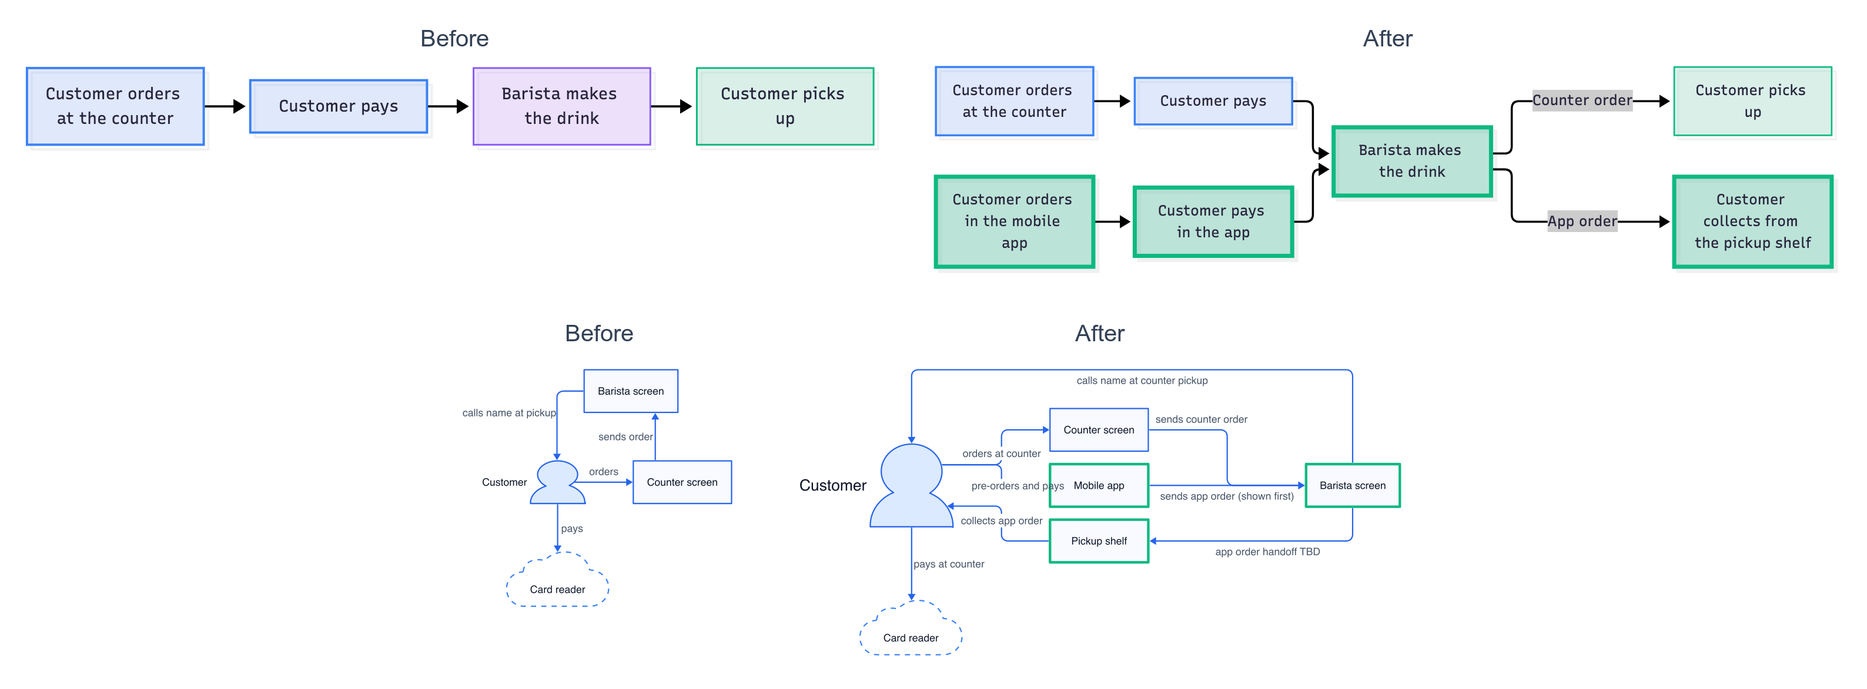
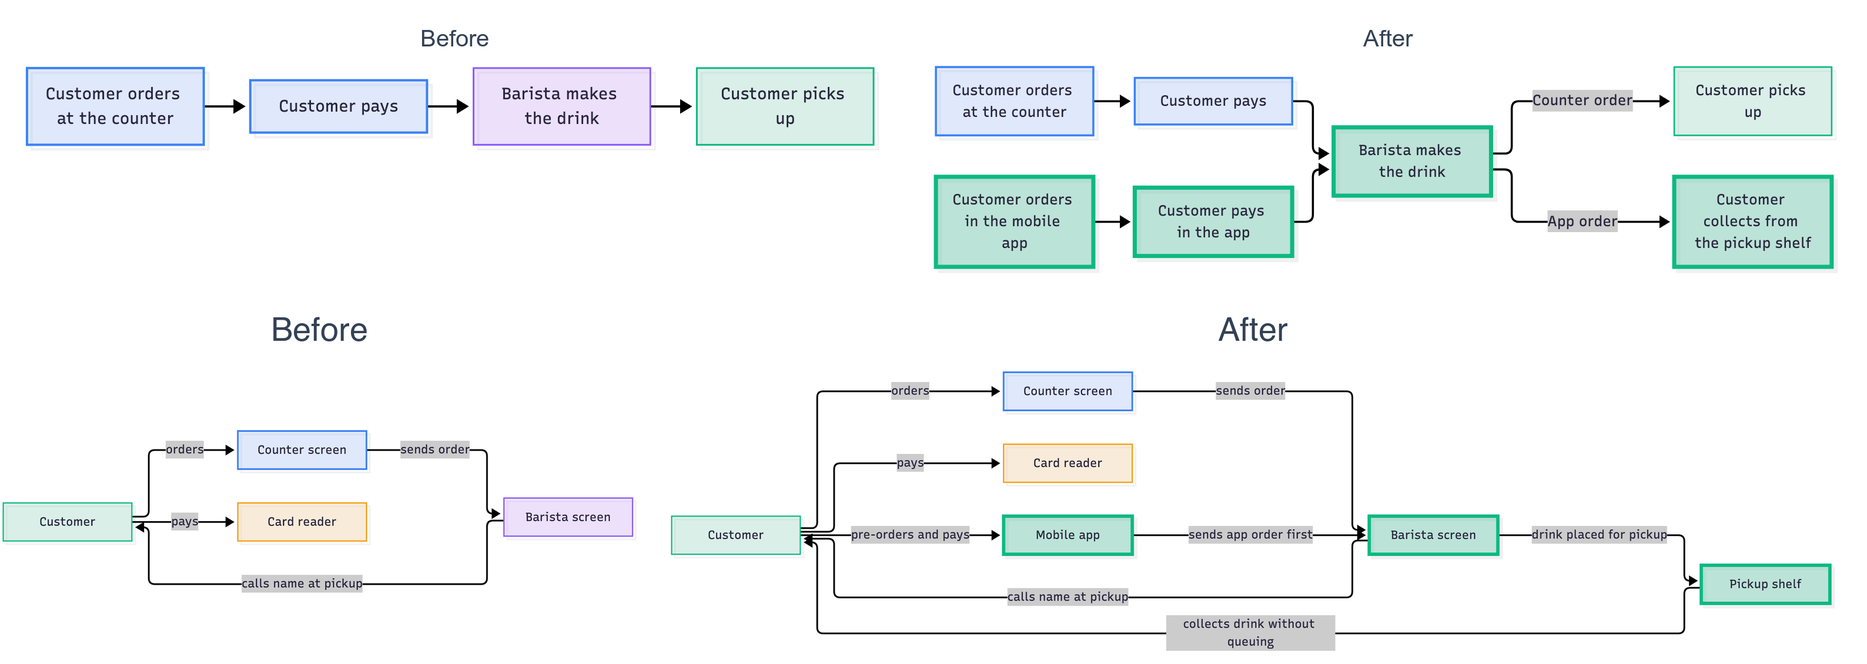
docs(repo): make demo 040 Mermaid-only and add a rendered D2 example to the crash course
Problem
- Demo 040 is the shortest, lowest-friction demo, but its D2 diagram needs a renderer that GitHub and most editors lack, and adds a second syntax for small models to get wrong.
- The crash course says a diagram is a recipe, but a six-line Mermaid example does not show how much one can draw.
- The repository was about to go public with a placeholder clone URL, a stale "no images" rule, and a checker that ignored image links.

Solution
- Replace demo 040's D2 diagram with a second Mermaid flowchart, update its agent rules, guide, README, and regenerate the before/after walkthrough image.
- Add a PNG rendered from the 89-line D2 block in the 010 architecture page to crash-course slide 9, stored in education/images/.
- Make tools/check-docs.py verify image links, with two new tests.
- Fill in the clone URL and refresh PLAN, AGENTS, TESTING, and tools/README.

Decisions
- D2 stays in demos 010 to 030, where the architecture is large enough to justify it.
- Withdraw the "Diagrams live only as text" decision: every diagram keeps a text recipe, and an image is an optional rendered copy, never the source.
- Reuse the real 010 diagram instead of drawing a new one, because it is already verified and shows scale.
- The renderer service address stays out of the repository; tools read it from D2_RENDERER_URL.

Implementation
- education/005-crash-course.md, education/README.md, education/images/d2-architecture-example.png.
[…]

diff --git a/tools/check-docs.py b/tools/check-docs.py
@@ -1,5 +1,5 @@
 #!/usr/bin/env python3
-"""Checks that every relative Markdown link resolves and every diagram renders.
+"""Checks that every relative Markdown link and image resolves and every diagram renders.
 
 Why it exists: this repository argues that documentation should be verified like
 code, so the same standard applies to its own pages. Mermaid renders locally with
@@ -20,8 +20,8 @@ from pathlib import Path
 ROOT = Path(__file__).resolve().parent.parent
 D2_URL = os.environ.get("D2_RENDERER_URL", "").rstrip("/")
 FENCE = re.compile(r"^```(\w+)[^\n]*\n(.*?)^```", re.S | re.M)
-# The lookbehind skips image syntax: this repository stores no images, so only page links are checked.
-LINK = re.compile(r"(?<!!)\[[^\]]*\]\(([^)\s]+)\)")
+# Matches page links and image links alike, so a missing image file is caught too.
+LINK = re.compile(r"\[[^\]]*\]\(([^)\s]+)\)")
 
 
 def markdown_files():

diff --git a/tools/test-check-docs.py b/tools/test-check-docs.py
@@ -65,6 +65,15 @@ class LinkChecks(unittest.TestCase):
         code, _ = run_checker({"a.md": f"{FENCE}text\n[gone](gone.md)\n{FENCE}\n"})
         self.assertEqual(code, 0)
 
+    def test_missing_image_fails(self):
+        code, output = run_checker({"a.md": "![alt](images/gone.png)"})
+        self.assertEqual(code, 1)
+        self.assertIn("broken link -> images/gone.png", output)
+
+    def test_existing_image_passes(self):
+        code, _ = run_checker({"a.md": "![alt](images/x.png)", "images/x.png": "png"})
+        self.assertEqual(code, 0)
+
     def test_web_and_anchor_links_are_ignored(self):
         code, _ = run_checker({"a.md": "[x](https://example.com) [y](#top)"})
         self.assertEqual(code, 0)

diff --git a/demo/040-lightweight-coffee-orders/presenter-guide.md b/demo/040-lightweight-coffee-orders/presenter-guide.md
@@ -12,11 +12,11 @@ git switch -c demo-run
 ```
 
 3. Open your AI tool in the [project/](project/README.md) folder. If it does not read [AGENTS.md](project/AGENTS.md) on its own, start with: "Read AGENTS.md and follow it."
-4. Have a previewer ready that shows Mermaid and D2 diagrams, so you can show the pictures after the change. Use whichever previewer you already have.
+4. Have a previewer ready that shows Mermaid diagrams, so you can show the pictures after the change. GitHub shows them in the browser, and most editors have a Mermaid preview. Use whichever you already have.
 
 ## Act 1: The starting point (30 seconds)
 
-- Show the two diagrams: the customer's journey (Mermaid) and the parts and how they connect (D2).
+- Show the two diagrams: the customer's journey and the parts and how they connect.
 - Say: "Both of these are text. There is no picture file behind them."
 
 ## Act 2: Ask (2 minutes)
@@ -66,9 +66,9 @@ Bramble Coffee is adding mobile pre-orders. Customers order and pay in a mobile 
 
 - **Show, in this order:**
   - The AI's summary.
-  - Your previewer, refreshed: new boxes and edges outlined in green in both diagrams.
+  - Your previewer, refreshed: new boxes and arrows outlined in green in both diagrams.
   - `git diff --stat`.
-- **Point out:** The text, the Mermaid diagram, and the D2 diagram all changed from one sentence.
+- **Point out:** The text and both diagrams changed from one sentence.
 
 ## Act 4: Clean up (30 seconds)
 
@@ -103,20 +103,20 @@ git add -A && git commit -m "Add mobile pre-orders"
 | File | Where                                                                                            |
 | :--- | :----------------------------------------------------------------------------------------------- |
 | 010  | The intro, the customer journey diagram (an app path), and the snapshot or risks                 |
-| 020  | The intro, the D2 diagram (a mobile app and a pickup shelf), the components table, and the rules |
+| 020  | The intro, the components diagram (a mobile app and a pickup shelf), the components table, and the rules |
 
 ## Rehearsal notes
 
-An independent run with a small, fast AI model (Haiku) and no other context handled every prompt in this guide. Expect similar results.
+A second independent run with a small, fast AI model (Haiku) and no other context handled every prompt in this guide on the Mermaid-only version. Expect similar results.
 
 - **Time:** About one minute of AI work for the change.
 - **What it did:**
-  - Updated both documents and both diagrams, and marked new or changed shapes in green.
-  - Kept the D2 setup block unchanged, and both diagrams compiled.
-  - Wrote `TBD` for what it could not know, such as who moves app orders to the shelf.
-- **The questions:** All five were answered correctly with the file named. For the coffee-bean question the model said the documents do not give a figure, and it did not invent one.
-- **The cleanup:** The model removed the highlights without disturbing anything else. If your model leaves a highlight behind, ask once more.
-- **A good line:** The AI wrote `TBD` for details the owner never gave, such as who moves app orders to the shelf. That gap is what the human review is for.
+  - Updated both documents and both diagrams, and marked new or changed nodes with the `changed` class.
+  - Kept the `classDef` setup, and both diagrams compiled.
+  - Wrote `TBD` for what it could not know: the app's payment provider, the wait for app orders, and who moves app orders to the shelf.
+- **The questions:** All five were answered correctly with the file named. For the coffee-bean question the model answered `TBD` and did not invent a figure.
+- **The cleanup:** The model removed the highlights without changing any text. It gave each formerly highlighted node the color of its role, because the rules require every node to keep a class. If your model leaves a highlight behind, ask once more.
+- **A good line:** The `TBD` entries are the gaps the owner never filled. That gap is what the human review is for.
 
 ## Pair it with the crash course
 

diff --git a/TESTING.md b/TESTING.md
@@ -4,12 +4,12 @@ The repository is documentation, so testing means proving that links resolve, di
 
 ## Workflows and checks
 
-| Change you make                              | Check                                                                             | Command                                                        | Expected result                                                         | When                        |
-| :------------------------------------------- | :-------------------------------------------------------------------------------- | :------------------------------------------------------------- | :---------------------------------------------------------------------- | :-------------------------- |
-| Any Markdown file                            | Every relative link resolves and every diagram renders                            | `python3 tools/check-docs.py`                                  | `0 problems`                                                            | Every change                |
-| The checker itself                           | The checker fails on a broken link, a broken Mermaid block, and a broken D2 block | `python3 tools/test-check-docs.py`                             | `OK`, with diagram cases skipped when no renderer is installed          | Every change to `tools/`    |
-| A demo's documents, rules, or prompts        | An AI given only `project/` answers and edits as the presenter guide says         | Rehearsal, described below                                     | Every item in the guide's answer key is hit, and every diagram compiles | Every change to a demo      |
-| A crash-course diagram or its long-form twin | The pair still tells the same story                                               | Read both sides of the row in the map in `education/README.md` | No contradiction                                                        | Every change to either side |
+| Change you make                              | Check                                                                                              | Command                                                        | Expected result                                                         | When                        |
+| :------------------------------------------- | :------------------------------------------------------------------------------------------------- | :------------------------------------------------------------- | :---------------------------------------------------------------------- | :-------------------------- |
+| Any Markdown file                            | Every relative link and image resolves and every diagram renders                                   | `python3 tools/check-docs.py`                                  | `0 problems`                                                            | Every change                |
+| The checker itself                           | The checker fails on a broken link, a missing image, a broken Mermaid block, and a broken D2 block | `python3 tools/test-check-docs.py`                             | `OK`, with diagram cases skipped when no renderer is installed          | Every change to `tools/`    |
+| A demo's documents, rules, or prompts        | An AI given only `project/` answers and edits as the presenter guide says                          | Rehearsal, described below                                     | Every item in the guide's answer key is hit, and every diagram compiles | Every change to a demo      |
+| A crash-course diagram or its long-form twin | The pair still tells the same story                                                                | Read both sides of the row in the map in `education/README.md` | No contradiction                                                        | Every change to either side |
 
 ## Diagram rendering needs a tool
 

diff --git a/DECISIONS.md b/DECISIONS.md
@@ -13,18 +13,6 @@
 - **Revisit when:**
   - The audience reacts to the term.
 
-## 2026-11-03 — Diagrams live only as text
-
-- **Context:**
-  - The argument is that pictures decay.
-  - Committed images would contradict it and drift from their source.
-- **Chosen:**
-  - Mermaid and D2 blocks in Markdown.
-- **Alternatives:**
-  - Commit rendered SVGs next to sources. Rejected for drift risk and repository bloat.
-- **Revisit when:**
-  - A platform used for reading cannot render D2 blocks natively.
-
 ## 2026-11-03 — Mermaid for most diagrams, D2 for two
 
 - **Context:**
@@ -181,6 +169,8 @@
   - Edit an existing project into a lightweight one. Rejected because the existing ones are built to show scale.
 - **Revisit when:**
   - A small model fails on the coffee example, or presenters prefer a different story.
+- **Update:**
+  - The D2 diagram was later replaced by a second Mermaid diagram. See "Demo 040 uses only Mermaid".
 
 ## 2026-11-03 — Each demo gives the AI only a project folder
 
@@ -213,3 +203,31 @@
   - `TESTING.md` maps each kind of change to its check, and lists what no check covers.
 - **Revisit when:**
   - The repository gains automated checks for the diagram structure rules.
+
+## 2026-11-03 — Demo 040 uses only Mermaid
+
+- **Context:**
+  - GitHub and most editors render Mermaid but not D2, so a D2 diagram forced presenters of the shortest demo to have a renderer.
+  - A second syntax also adds a second way for a small model to fail.
+- **Chosen:**
+  - Both diagrams in `040-lightweight-coffee-orders` are Mermaid flowcharts, marked with the same green `changed` class.
+  - D2 stays in demos 010 to 030, where the architecture is large enough to justify it.
+- **Alternatives:**
+  - Keep one D2 diagram so every demo shows both tools. Rejected because the other three already do.
+- **Revisit when:**
+  - Presenters want to show D2 in a short slot.
+
+## 2026-11-03 — One rendered D2 image in the crash course
+
+- **Context:**
+  - The crash course says a diagram is a recipe, but a six-line Mermaid example does not show how much a recipe can draw.
+  - The repository already commits images as props, so an image is not new, but it must not become the source.
+- **Chosen:**
+  - Slide 9 shows a PNG rendered from the 89-line D2 block in the 010 architecture page, and links to that page for the text.
+  - The image lives in `education/images/`, and `tools/check-docs.py` now fails when an image link points to a missing file.
+  - The "Diagrams live only as text" decision is withdrawn. The rule that remains is that every diagram has a text recipe, and an image is an optional rendered copy.
+- **Alternatives:**
+  - Embed the D2 block with no image. Rejected because GitHub does not render D2, so readers would see code.
+  - Draw a new D2 diagram for the slide. Rejected because the 010 diagram is real and already verified.
+- **Revisit when:**
+  - The 010 architecture changes. Re-render the image from its block.

diff --git a/demo/040-lightweight-coffee-orders/project/AGENTS.md b/demo/040-lightweight-coffee-orders/project/AGENTS.md
@@ -7,7 +7,7 @@ You maintain the small documentation set in `docs/` for a fictional coffee shop,
 | File                       | Content                                                                                         |
 | :------------------------- | :---------------------------------------------------------------------------------------------- |
 | `docs/010-overview.md`     | What the ordering process is, key facts, the customer's journey as a Mermaid diagram, and risks |
-| `docs/020-how-it-works.md` | Components, the D2 diagram of how they connect, and the rules                                   |
+| `docs/020-how-it-works.md` | Components, the Mermaid diagram of how they connect, and the rules                              |
 | `docs/README.md`           | Index of the two documents. Keep it in step if you add or rename a document.                    |
 
 ## Rules
@@ -17,9 +17,8 @@ You maintain the small documentation set in `docs/` for a fictional coffee shop,
   - Update the text and the diagrams together. A diagram must never disagree with the text.
 - **Make changes easy to see:**
   - Mark every new or changed Mermaid node with the class `changed`. Add this line to the diagram if it is missing: `classDef changed fill:#05966940,stroke:#10B981,stroke-width:4px;`
-  - Mark every new or changed D2 shape with `style.stroke: "#10B981"` and `style.stroke-width: 4`.
+  - Do this in both diagrams, so the reader sees every change without reading the text.
 - **Keep the diagram setup:**
-  - Keep the `vars` block at the top of the D2 diagram unchanged.
   - Keep the `classDef` lines and the `class` lines in Mermaid flowcharts.
   - Quote every Mermaid node label and edge label.
 - **Never invent facts:** Write `TBD` for anything you cannot know.
@@ -28,19 +27,9 @@ You maintain the small documentation set in `docs/` for a fictional coffee shop,
 
 ## Syntax reminders
 
-Mermaid, add a node and an edge, then give the node a class:
+Add a node and an edge, then give the node a class:
 
 ```text
     a["Existing step"] --> n["New step"]
     class n changed
-```
-
-D2, add a shape and an edge:
-
-```text
-new_box: New box {
-  style.stroke: "#10B981"
-  style.stroke-width: 4
-}
-existing -> new_box: label
 ```

diff --git a/AGENTS.md b/AGENTS.md
@@ -16,7 +16,7 @@ The repository teaches non-technical readers why and how to keep documentation a
 
 - **Diagrams:**
   - Write documentation diagrams as text: use fenced `mermaid` blocks for flows, sequences, timelines, and states, and fenced `d2` blocks for complex architecture.
-  - Visual assets, screenshots, and demonstration props may be committed alongside documentation.
+  - Visual assets, screenshots, and demonstration props may be committed alongside documentation. A rendered image never replaces its text recipe.
 - **Diagram setup:**
   - Start every `d2` block with the standard `vars` header that selects the TALA layout. Copy it from an existing block.
   - Start every Mermaid flowchart with the theme `classDef` lines, and give every node a class. Copy them from an existing diagram.
@@ -67,7 +67,7 @@ Mermaid renders with `mmdc` (Mermaid CLI) when installed. D2 renders through a s
 printf 'client -> server: Hello\n' | curl -X POST --data-binary @- "$D2_RENDERER_URL/d2/svg" -o diagram.svg
 ```
 
-Write rendered output to a temporary location, not into the repository.
+Write rendered output to a temporary location, not into the repository. The one exception is `education/images/`, which holds the rendered example for crash-course slide 9. Re-render it when its source D2 block changes. To convert the SVG to PNG, use `rsvg-convert -w 2000 -b white in.svg -o out.png`.
 
 ## Demo behavior
 
@@ -77,7 +77,7 @@ Write rendered output to a temporary location, not into the repository.
 - **Keeping projects in step:**
   - The three Northwind projects (010, 020, 030) share the same starting documents.
   - Apply any base document change to all three `project/docs/` folders.
-  - The lightweight project (040) has its own small documents.
+  - The lightweight project (040) has its own small documents and uses Mermaid only.
 - **What the demos prescribe:**
   - Each demo says what to change and which prompts to use.
   - No demo says how to preview diagrams or which tools to install.

diff --git a/PLAN.md b/PLAN.md
@@ -8,7 +8,7 @@
 **Acceptance:**
 
 - `education/` carries the full argument, diagram-led, and `python3 tools/check-docs.py` passes.
-- `demo/` holds three Northwind projects, each with three documents, one D2 diagram, and several Mermaid diagrams, and one lightweight coffee-shop project with two documents and two small diagrams.
+- `demo/` holds three Northwind projects, each with three documents, one D2 diagram, and several Mermaid diagrams, and one lightweight coffee-shop project with two documents and two small Mermaid diagrams.
 - A fresh AI session pointed at a demo's `project/` folder answers the sample questions correctly and applies the sample changes across text and diagrams.
 
 **Done:**
@@ -19,13 +19,15 @@
 - `education/005-crash-course.md`: the sixteen-diagram crash course, with a sync map to the long-form pages.
 - Public-readiness pass: no private renderer address, neutral voice.
 - Independent rehearsal of the four guides with fresh AI sessions (the lightweight one with a small model), and the fixes it exposed.
+- Made demo 040 Mermaid-only, added a rendered D2 image to crash-course slide 9, and made the checker verify image links.
+- Set the GitHub description and topics, and turned off Projects, Wikis, Discussions, Actions, and merge commits.
 - Chose MIT license (`LICENSE`), added repository hygiene (`.gitignore`), and aligned demo walkthrough graphics.
 
 **Next action:**
 
 - Run one presenter guide with the AI tool you will present with, on the final `project/` layout, and fix timing notes that differ.
-- Review the commit history for private details before making the repository public.
-- Fill in the repository clone URL in `README.md`.
+- Make the repository public (the 2026-11-03 history review found only the author name and email), then enable secret scanning and push protection in Settings.
+- Re-run the 040 guide with the AI tool you present with: the Mermaid-only version had one small-model rehearsal only.
 
 **Blockers:**
 

diff --git a/education/005-crash-course.md b/education/005-crash-course.md
@@ -4,7 +4,7 @@ Sixteen diagrams, about eight minutes, that take a non-technical audience from "
 
 ## About the diagram titles
 
-Each diagram carries a `title:` block inside its code, matching the caption above it. A title is shortened only where a long one would be cut off, as in the sequence diagram. A presenter who copies only the diagram into a slide keeps its title. This is a deliberate exception to the usual rule that the caption alone titles a diagram.
+Each diagram carries a `title:` block inside its code, matching the caption above it. A title is shortened only where a long one would be cut off, as in the sequence diagram. The rendered image on slide 9 is a picture of a recipe, so its caption is its title. A presenter who copies only the diagram into a slide keeps its title. This is a deliberate exception to the usual rule that the caption alone titles a diagram.
 
 ## Who this is for
 
@@ -272,6 +272,12 @@ flowchart LR
     class r c3
     class p c1
 ```
+
+The same idea at scale: the 89 lines of D2 text in the [010 architecture page](../demo/010-residency-and-audit/project/docs/020-architecture.md) draw the diagram below. The image is a rendered copy. The text stays the source, so changing one line redraws it.
+
+**Diagram: A page of D2 text draws a full architecture with nested groups, data stores and labeled flows**
+
+![A rendered D2 architecture diagram of a sales platform: sales and settlement sources feed an integration platform, a cloud warehouse with four data zones, dashboards and users](images/d2-architecture-example.png)
 
 ### 10. Git makes change trustworthy
 

diff --git a/demo/040-lightweight-coffee-orders/project/docs/020-how-it-works.md b/demo/040-lightweight-coffee-orders/project/docs/020-how-it-works.md
@@ -4,29 +4,24 @@ The cashier enters the order on the counter screen and takes payment. The order 
 
 ## Components
 
-```d2
-vars: {
-  d2-config: {
-    layout-engine: tala
-    pad: 24
-    theme-id: 0
-    dark-theme-id: 200
-  }
-}
+**Diagram: The customer orders at the counter and pays at the card reader, and the barista screen shows the order**
 
-direction: right
-
-customer: Customer {shape: person}
-counter: Counter screen
-reader: Card reader {
-  shape: cloud
-  style.stroke-dash: 4
-}
-barista: Barista screen
-customer -> counter: orders
-customer -> reader: pays
-counter -> barista: sends order
-barista -> customer: calls name at pickup
+```mermaid
+flowchart LR
+    classDef default fill:#64748B1F,stroke:#64748B,stroke-width:1.5px;
+    classDef c1 fill:#2563EB24,stroke:#3B82F6,stroke-width:2px;
+    classDef c2 fill:#7C3AED24,stroke:#8B5CF6,stroke-width:1.5px;
+    classDef c3 fill:#05966924,stroke:#10B981,stroke-width:1.5px;
+    classDef c4 fill:#D9770624,stroke:#F59E0B,stroke-width:1.5px;
+    classDef c5 fill:#DC262624,stroke:#EF4444,stroke-width:2px;
+    cu["Customer"] -->|"orders"| co["Counter screen"]
+    cu -->|"pays"| cr["Card reader"]
+    co -->|"sends order"| ba["Barista screen"]
+    ba -->|"calls name at pickup"| cu
+    class cu c3
+    class co c1
+    class cr c4
+    class ba c2
 ```
 
 | Component      | Job                                   |

diff --git a/tools/README.md b/tools/README.md
@@ -4,8 +4,8 @@ The folder holds scripts that keep this repository's documentation correct.
 
 ## Contents
 
-- [check-docs.py](check-docs.py): Confirms every relative link resolves and every `mermaid` and `d2` block renders.
-- [test-check-docs.py](test-check-docs.py): Tests that the checker fails on a broken link, a broken Mermaid block, and a broken D2 block.
+- [check-docs.py](check-docs.py): Confirms every relative link and image resolves and every `mermaid` and `d2` block renders.
+- [test-check-docs.py](test-check-docs.py): Tests that the checker fails on a broken link, a missing image, a broken Mermaid block, and a broken D2 block.
 
 ## Run it
 
@@ -17,7 +17,7 @@ python3 tools/check-docs.py
   - Render locally when `mmdc` (Mermaid CLI) is installed.
   - Are skipped with a notice when `mmdc` is missing.
 - **D2 blocks:**
-  - Render through the service named in the `D2_RENDERER_URL` environment variable, for example a self-hosted D2 render endpoint that accepts D2 text at `/d2/svg`.
+  - Render through the service named in the `D2_RENDERER_URL` environment variable, for example a self-hosted D2 render endpoint that accepts D2 text at `/d2/svg`. A service also honors the TALA layout that the diagrams request.
   - Fall back to the local `d2` command, with the ELK layout, when the variable is not set.
   - Are skipped with a notice when neither is available.
 

diff --git a/education/README.md b/education/README.md
@@ -78,6 +78,7 @@ flowchart LR
 - [040-the-payoff.md](040-the-payoff.md): Ask, draw, update, and the company AI brain.
 - [050-adopting-it.md](050-adopting-it.md): The five rules, a four-phase roadmap, and what to do this week.
 - [060-glossary.md](060-glossary.md): Plain-language meanings of every technical term used.
+- [images/](images/d2-architecture-example.png): The rendered D2 architecture image shown on crash-course slide 9.
 
 **Diagram: The folder index points to seven pages in reading order**
 
@@ -151,7 +152,7 @@ flowchart LR
 - **Diagrams:**
   - Mermaid shows flows, sequences, timelines, and states.
   - D2 shows complex architecture.
-  - Both live as text in the page, never as images.
+  - Both live as text in the page. The one image, on crash-course slide 9, is a rendered copy of a D2 diagram, and its text recipe stays the source.
 - **Terms:**
   - Every technical term is explained at first use.
   - An analogy accompanies the term where one fits.
